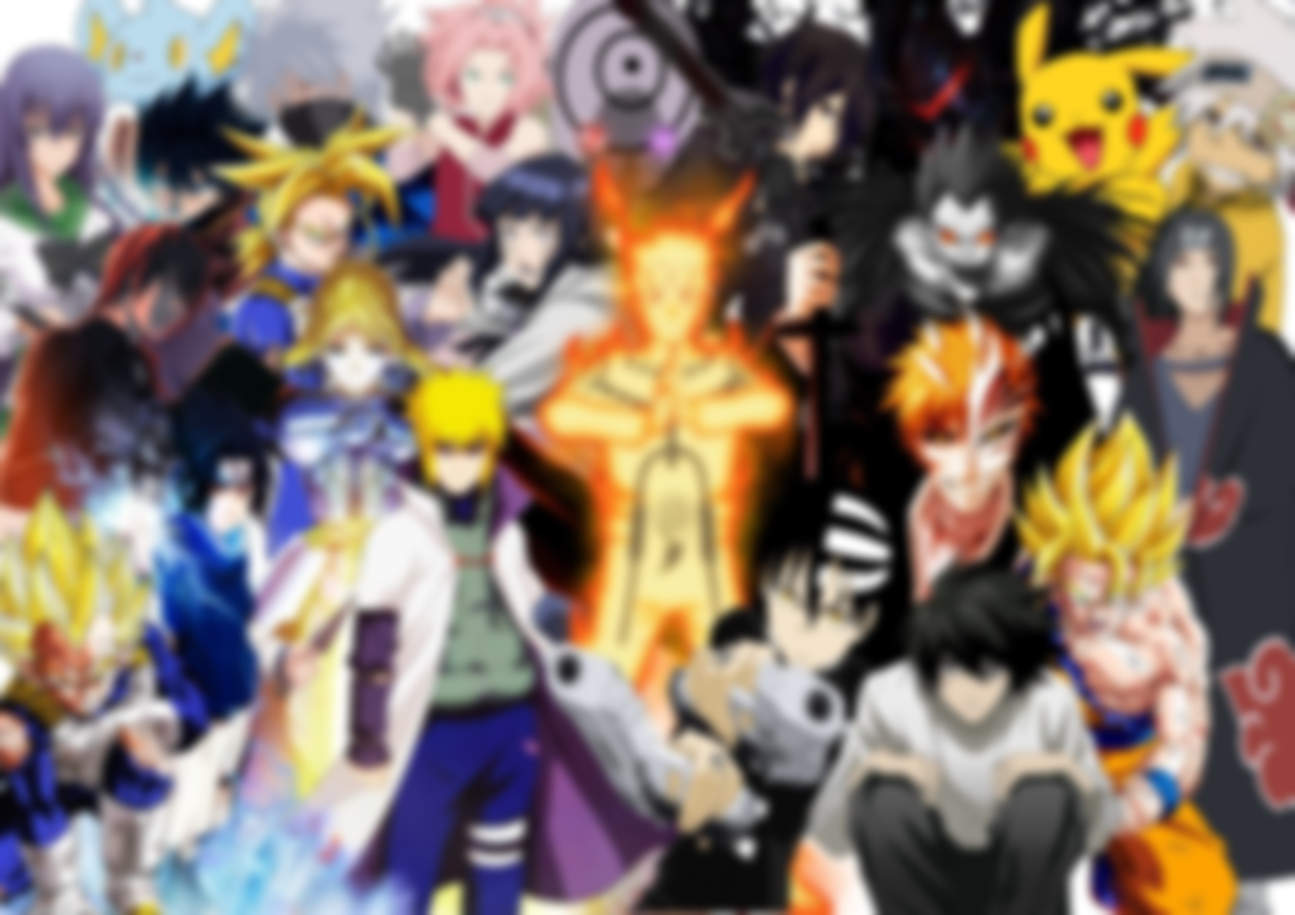
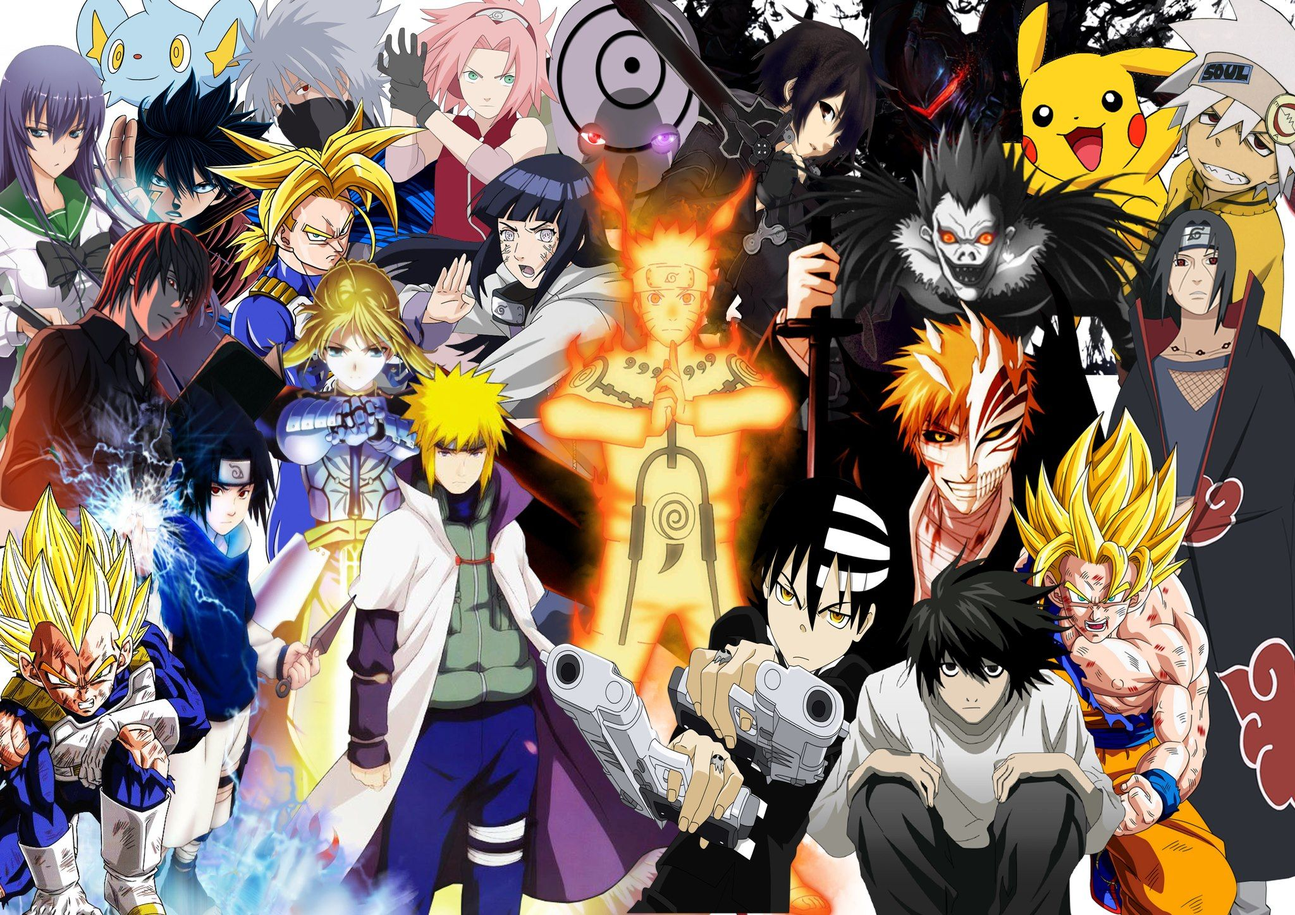
Updates
Ghub pages

diff --git a/src/components/Navbar.js b/src/components/Navbar.js
@@ -20,7 +20,7 @@ const NavBar = () => {
     return (  
        
 <Navbar className="navbar-color" expand="lg" variant="light" position="sticky">
-   <Navbar.Brand href="/"><div className="font-color">ANIME LIST VIEWER</div>
+   <Navbar.Brand href="/random-anime-recommendation-and-search-list/#/"><div className="font-color">ANIME LIST VIEWER</div>
  </Navbar.Brand>
   <Navbar.Toggle aria-controls="basic-navbar-nav" />
   <Navbar.Collapse id="basic-navbar-nav">
@@ -38,8 +38,8 @@ const NavBar = () => {
             <SearchIcon/>
              </IconButton>
     </Form>
-      <Nav.Link href="/" ><Button  variant="custom" className ="button-color" >Home</Button> </Nav.Link>
-      <Nav.Link href="/about"><Button  variant="custom" className ="button-color" >About</Button></Nav.Link>
+      <Nav.Link href="/random-anime-recommendation-and-search-list/" ><Button  variant="custom" className ="button-color" >Home</Button> </Nav.Link>
+      <Nav.Link href="/random-anime-recommendation-and-search-list/#/about"><Button  variant="custom" className ="button-color" >About</Button></Nav.Link>
       </Nav>
   </Navbar.Collapse>
 </Navbar>

diff --git a/src/pages/App.js b/src/pages/App.js
@@ -3,7 +3,7 @@ import Navbar from "../components/Navbar";
 import Results from './Results';
 import ViewSingle from './ViewSingle';
 import RandomRec from './RandomRec';
-import {BrowserRouter as Router,Switch,Route} from 'react-router-dom';
+import {HashRouter as Router,Switch,Route} from 'react-router-dom';
 import { useState } from 'react';
 import { searchContext} from '../context/search';
 import About from './About';
@@ -27,11 +27,12 @@ function App() {
       {animeData,singleData,setData,setSingleData,search}
       } >
     <div className="App">
+      <div className="blur">
     <Router>
       <Navbar />
         
             <Switch>
-              <Route exact  path="/random-anime-recommendation-and-search-list/" >
+            <Route exact  path="/random-anime-recommendation-and-search-list/" >
                <Home />
               </Route>
               <Route exact  path="/about" >
@@ -49,6 +50,7 @@ function App() {
               
             </Switch>
         </Router>
+        </div>
        </div>
     </searchContext.Provider>
   );

diff --git a/src/pages/About.js b/src/pages/About.js
@@ -14,8 +14,9 @@ const About = () => {
     <Paper elevation={3}  className="about-Paper">
     <img  src={anime1}  alt="" style={{maxHeight:200}} />
     <Typography variant="h5" component="h2" className ="about-Typo" >
-            Project: Simple Anime search result viewer<br/>
-            with little info on requested results, pulls data from <br/><i>MyAnimeList</i> API<br/>
+            Project: Simple Anime search result viewer <br/>
+            with a little info on requested results and <br/>Random Anime
+            Recommender, pulls data from <br/><i>MyAnimeList</i> API<br/>
             Made using : React js,Jikan API<br/>
             Done by: Roshan Purohit<br/>
             <Link href="https://github.com/roshanpurohit" className="about-link">GitHub</Link>

diff --git a/src/pages/index.css b/src/pages/index.css
@@ -7,17 +7,27 @@
 }
 
 html,body {
-   background: url(../components/animeBg.jpg) !important;
-   background-size:cover !important;
+  
+  background: url(../components/animeBg.jpg);
+   background-size:cover!important;
+   height: auto !important;
+   min-height: 100vh !important;
    max-width: 100%;
    overflow-x:hidden;
    
   }
-
-
+.blur{
+  background: rgba(17, 10, 10, 0.2); 
+  background-size: cover !important;
+  backdrop-filter: blur(3px);
+  min-height:100vh !important;
+  height: auto !important;
+  width:100% !important;
+}
 
 .navbar-color{
   background-color:rgb(0,0,0);
+
   
 }
 .font-color{

diff --git a/src/components/AnimeInfo.js b/src/components/AnimeInfo.js
@@ -30,7 +30,7 @@ const AnimeInfo= ({info})=> {
          <Typography variant="h5" component="h2" className="singleView-typo">
              Title:{title}</Typography>
          <Typography variant="h5" component="h2" className="singleView-typo">
-             Airing:{ airing?"Yes":"False"}</Typography>
+             Airing:{ airing?"Yes":"No"}</Typography>
          <Typography variant="h5" component="h2" className="singleView-typo">Broadcast:{broadcast}
          </Typography>
          <Typography variant="h5" component="h2" className="singleView-typo">Score:{score}
